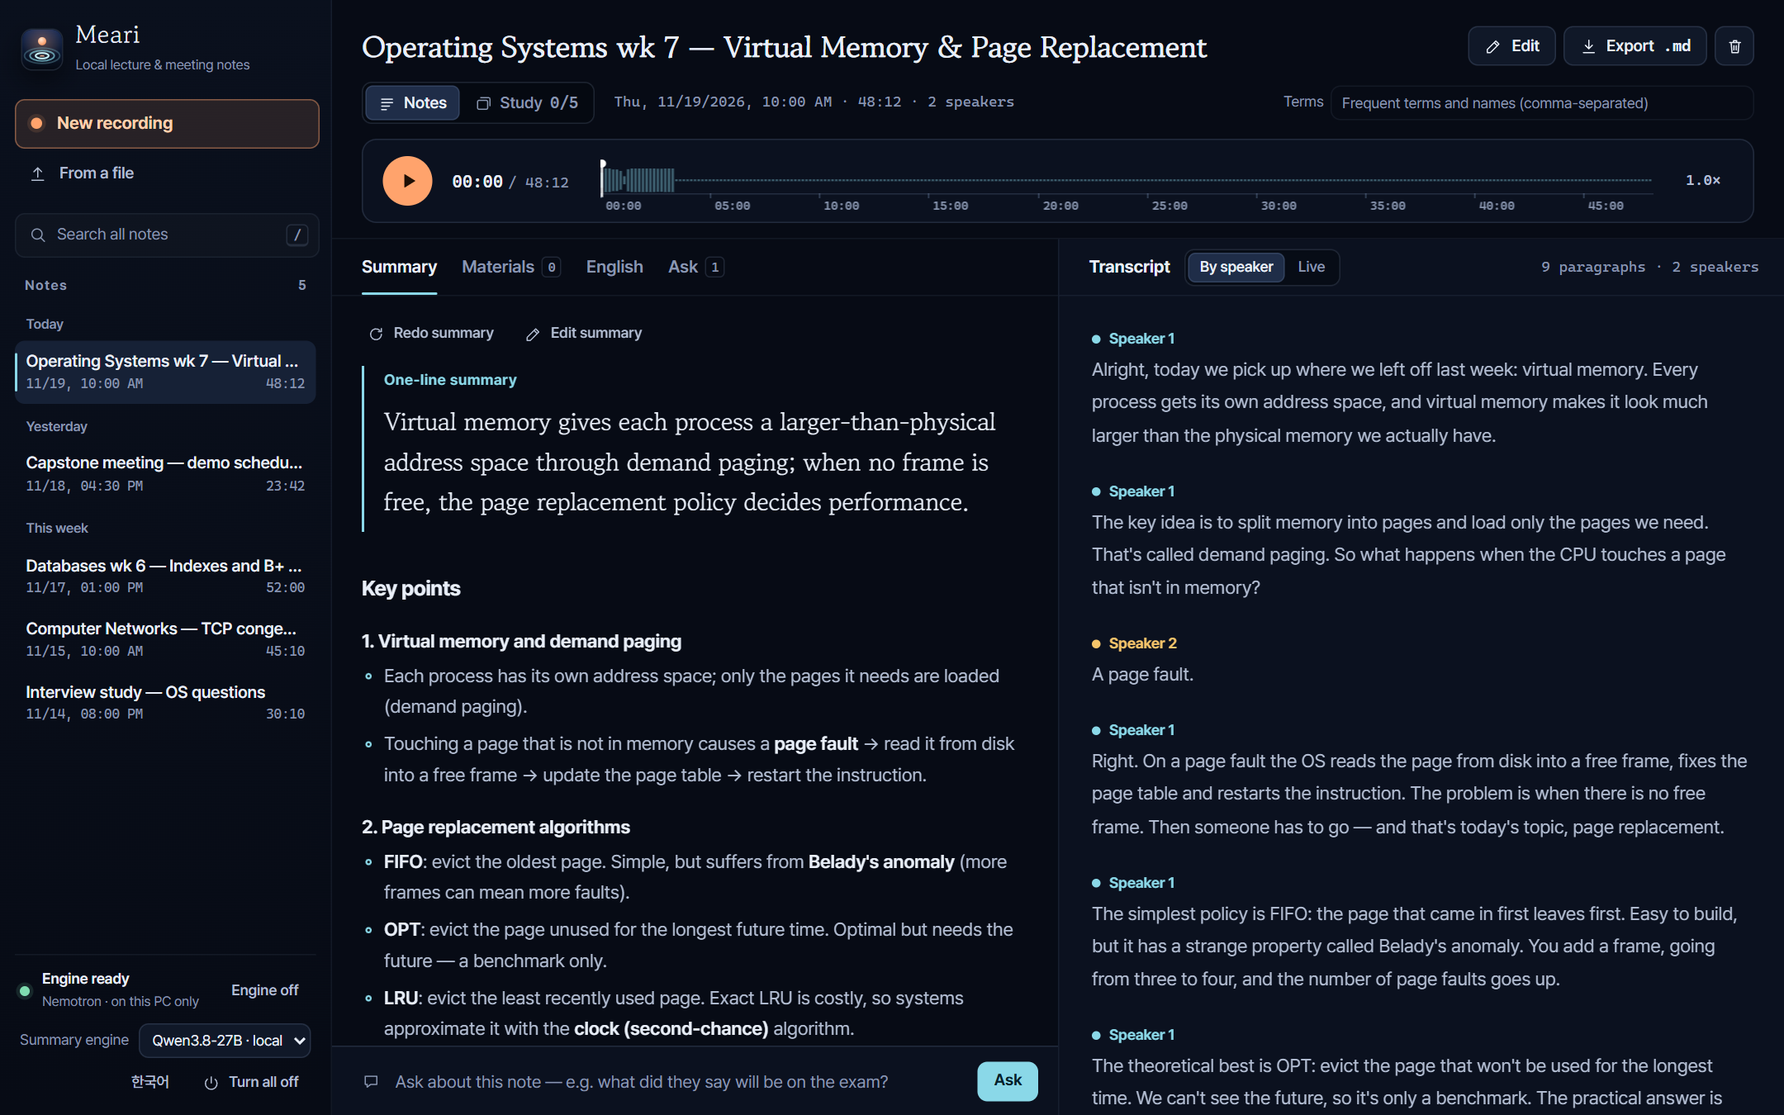
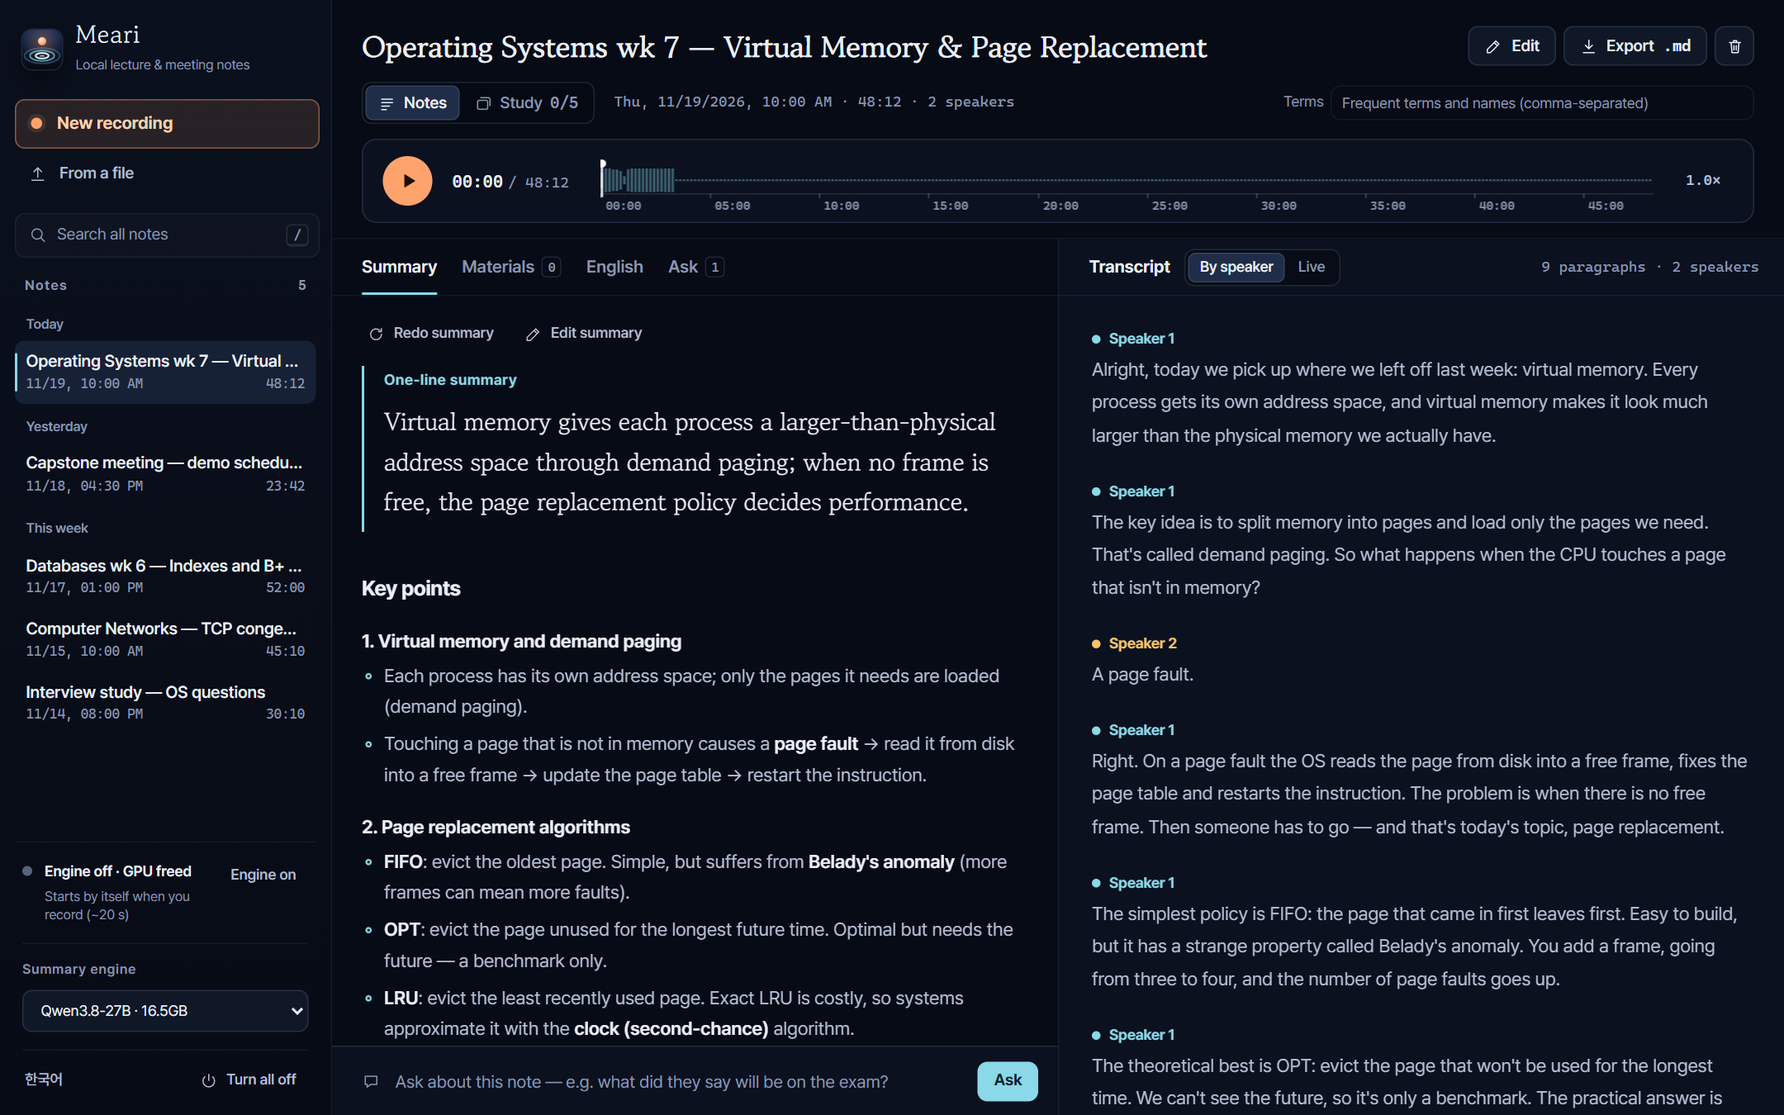
Keep speaker numbers across 30-minute parts; tidy the engine panel
- Speaker pass: each part after the first re-reads the last minute of the one before
  (MEARI_PIECE_OVERLAP_S, default 60). Speakers saying the same words there keep their
  number, the repeated text is dropped, and numbers go 1, 2, 3... by first appearance.
  Matching ignores spaces and punctuation. Old notes still show the per-part caveat.
- Sidebar engine panel: sections with separators, summary engine label above a full-width
  list grouped into local / subscription, cloud notice with an icon, status text wraps.
- README: limitation and settings updated, screenshots retaken.

Changed region(s): [[0.0, 0.8711, 0.1861, 0.9956], [0.0, 0.7778, 0.1551, 0.84], [0.062, 0.9644, 0.0931, 0.9956]]

diff --git a/static/style.css b/static/style.css
@@ -170,11 +170,11 @@ body[data-engine="boot"] [data-led] { background: var(--amber); box-shadow: 0 0 
 .nrow__snip { grid-column: 1 / -1; font-size: var(--t-12); color: var(--tx-2); line-height: 1.5; margin-top: 2px; display: -webkit-box; -webkit-line-clamp: 2; -webkit-box-orient: vertical; overflow: hidden; }
 .notes__empty { margin: var(--s-3) 2px; padding: var(--s-4); border: 1px dashed var(--line-2); border-radius: var(--r-3); color: var(--tx-3); font-size: var(--t-13); line-height: 1.6; }
 .notes__empty b { display: block; color: var(--tx-2); font-weight: 600; }
-.engine { border-top: 1px solid var(--line-1); padding: 10px 4px 2px; }
+.engine { border-top: 1px solid var(--line-1); padding: 14px 6px 4px; }
 .engine__row { display: flex; align-items: center; gap: 10px; }
 .engine__tx { flex: 1; min-width: 0; }
 .engine__tx b { display: block; font-size: var(--t-12); font-weight: 600; }
-.engine__tx small { display: block; font-size: var(--t-11); color: var(--tx-3); white-space: nowrap; overflow: hidden; text-overflow: ellipsis; }
+.engine__tx small { display: block; margin-top: 2px; font-size: var(--t-11); line-height: 1.45; color: var(--tx-3); }
 .phbar, .scrim { display: none; }
 
 /* ---------- main + views ---------- */
@@ -730,11 +730,15 @@ dialog .r { display: flex; justify-content: flex-end; gap: 8px; margin-top: var(
 }
 
 /* engine panel: state + two levels of "off" */
-.engine__row--sub { justify-content: space-between; margin-top: 6px; }
-.engine__row--sub #langBtn { margin-left: auto; margin-right: -4px; }
-.engine__llm { margin-top: 8px; gap: 8px; font-size: var(--t-12); color: var(--tx-3); }
-.engine__llm span { flex: none; }
-.engine__llm select { flex: 1; min-width: 0; height: 28px; padding: 0 6px; border: 1px solid var(--line-2); border-radius: var(--r-2);
+.engine__row--sub { justify-content: space-between; margin-top: 14px; padding-top: 10px; border-top: 1px solid var(--line-1); }
+.engine__row--sub #langBtn { margin-left: -8px; }
+.engine > .engine__row:first-child { align-items: flex-start; }
+.engine > .engine__row:first-child .led { margin-top: 5px; }
+.engine > .engine__row:first-child .btn { margin-top: -2px; }
+.engine__tx small { word-break: keep-all; }
+.engine__llm { display: block; margin-top: 14px; padding-top: 12px; border-top: 1px solid var(--line-1); }
+.engine__cap { display: block; margin-bottom: 7px; font-size: var(--t-11); font-weight: 600; letter-spacing: .04em; color: var(--tx-3); }
+.engine__llm select { width: 100%; height: 34px; padding: 0 10px; border: 1px solid var(--line-2); border-radius: var(--r-2);
   background: var(--ink-3); color: var(--tx-1); font-size: var(--t-12); cursor: pointer; }
 .engine__llm select:focus-visible { outline: 2px solid var(--echo-ln); outline-offset: 1px; }
 .sum-make { display: flex; flex-direction: column; align-items: flex-start; gap: 12px; padding: 22px 22px 20px; margin-top: 4px;
@@ -742,9 +746,9 @@ dialog .r { display: flex; justify-content: flex-end; gap: 8px; margin-top: var(
 .sum-make p { margin: 0; color: var(--tx-1); font-size: var(--t-15); }
 .sum-make .btn { height: 38px; padding: 0 16px; font-size: var(--t-14); border-color: var(--echo-ln); color: var(--echo-hi); }
 .sum-make small { color: var(--tx-3); font-size: var(--t-12); }
-.engine__cloud { display: block; margin-top: 4px; font-size: 11px; color: var(--amber); }
+.engine__cloud { display: flex; align-items: center; gap: 6px; margin-top: 8px; font-size: var(--t-11); line-height: 1.4; color: var(--amber); }
 .engine__cloud[hidden] { display: none; }
-.engine__idle { color: var(--tx-3); font-size: 11.5px; }
+.engine__idle:empty { display: none; }
 body[data-engine="off"] [data-led] { background: var(--tx-4); box-shadow: none; animation: none; }
 .ln--wait .ln__ko { color: var(--tx-3); }
 /* tap-to-start overlay when the browser blocks audio until a click */

diff --git a/static/app.js b/static/app.js
@@ -90,7 +90,7 @@ async function checkEngine() {
     boot: [t("엔진 켜는 중… (약 3분)"), t("녹음은 지금 바로 할 수 있어요"), t("켜는 중")],
     off: [t("엔진 꺼짐 · GPU 비워 둠"), t("녹음하면 자동으로 켜져요 (약 3분)"), t("꺼짐")] }[engineState];
   $("#engineText").textContent = T[0];
-  $("#engineMeta").textContent = st.backlog ? t("밀린 받아쓰기 {n}개 · 켜지면 처리해요", { n: st.backlog }) : T[1];
+  $("#engineMeta").textContent = st.backlog ? t("밀린 받아쓰기 {n}개 · 켜지면 처리해요", { n: st.backlog }) : T[1].replace(/\((약|~) /, "($1 ");  // keep "(약 20초)" on one line
   $$("[data-engine-short]").forEach((e) => (e.textContent = T[2]));
   const b = $("#engineBtn");
   b.textContent = engineState === "off" ? t("엔진 켜기") : t("엔진 끄기"); b.disabled = engineState === "boot";
@@ -321,7 +321,7 @@ function renderFinal(force) {
   let part = null;
   $("#final").innerHTML = f.paragraphs.map((p, i) => {
     let h = "";
-    if (p.part && p.part !== part) { part = p.part; h = `<div class="part">${t("{n}분 ~ (화자 번호는 30분 구간마다 새로 매겨져요)", { n: (part - 1) * 30 })}</div>`; }
+    if (p.part && p.part !== part) { part = p.part; h = `<div class="part">${data.final.linked ? t("{n}분 ~", { n: (part - 1) * 30 }) : t("{n}분 ~ (화자 번호는 30분 구간마다 새로 매겨져요)", { n: (part - 1) * 30 })}</div>`; }
     return h + `<div class="para" data-i="${i}" data-s="${(p.speaker % 4) + 1}"><button class="who" type="button" tabindex="${editMode ? 0 : -1}">${t("화자 {n}", { n: p.speaker + 1 })}</button>` +
       `<p class="tx__ko"><span class="tx__t"${ce()}>${esc(p.text)}</span></p></div>`;
   }).join("");
@@ -1398,13 +1398,14 @@ async function loadLlm() {
   try { r = await api("/llm"); } catch { return; }
   if (!r.native || !r.options.length) return;
   llmCur = r.current;
-  $("#llmSel").innerHTML = r.options.map((o) => `<option value="${esc(o.id)}"${o.id === r.current ? " selected" : ""}>${esc(o.label)} · ${
-    o.kind === "cloud" ? t("구독 · 클라우드") : t("로컬 {n}GB", { n: o.gb })}</option>`).join("");
+  const opt = (o) => `<option value="${esc(o.id)}"${o.id === r.current ? " selected" : ""}>${esc(o.label)}${o.kind === "local" ? ` · ${o.gb}GB` : ""}</option>`;
+  const group = (kind, name) => { const os = r.options.filter((o) => o.kind === kind); return os.length ? `<optgroup label="${esc(name)}">${os.map(opt).join("")}</optgroup>` : ""; };
+  $("#llmSel").innerHTML = group("local", t("로컬 — 이 PC 안에서")) + group("cloud", t("구독 — 클라우드"));
   $("#llmRow").hidden = false;
   $("#llmCloud").hidden = !isCloud(llmCur);
 }
 $("#llmSel").onchange = async (e) => {
-  const v = e.target.value, label = (e.target.selectedOptions[0]?.textContent || v).split(" · ")[0];
+  const v = e.target.value, label = (e.target.selectedOptions[0]?.textContent || v).split(" · ")[0];  // drop the size
   if (isCloud(v) && !await confirmDlg(t("클라우드 엔진으로 바꿀까요?"),
     t("요약·퀴즈·질문 답변을 만들 때 원고가 {s} 쪽으로 보내져요. 녹음 파일은 보내지 않아요. 구독 사용량이 조금씩 쓰여요.", { s: label }), t("바꾸기"))) {
     e.target.value = llmCur;

diff --git a/static/index.html b/static/index.html
@@ -14,7 +14,7 @@
 <link rel="preconnect" href="https://fonts.googleapis.com">
 <link rel="preconnect" href="https://fonts.gstatic.com" crossorigin>
 <link rel="stylesheet" href="https://fonts.googleapis.com/css2?family=Gowun+Batang:wght@400;700&display=swap">
-<link rel="stylesheet" href="style.css?v=17">
+<link rel="stylesheet" href="style.css?v=18">
 </head>
 <body data-engine="boot" data-view="home">
 
@@ -58,6 +58,7 @@
     <symbol id="i-note" viewBox="0 0 24 24"><path d="M5 6.5h14M5 11h14M5 15.5h10M5 20h6"/></symbol>
     <symbol id="i-menu" viewBox="0 0 24 24"><path d="M4 7h16M4 12h16M4 17h16"/></symbol>
     <symbol id="i-ext" viewBox="0 0 24 24"><path d="M13.5 4.5H19.5V10.5M19.5 4.5l-8 8M17 14v5.5H4.5V7H10"/></symbol>
+    <symbol id="i-cloud" viewBox="0 0 24 24"><path d="M7.5 18.5h9.5a4 4 0 0 0 .6-7.95A5.5 5.5 0 0 0 7 9.6a4.5 4.5 0 0 0 .5 8.9z"/></symbol>
   </defs>
 </svg>
 
@@ -83,16 +84,15 @@
   <div class="engine">
     <div class="engine__row">
       <i id="engineDot" class="led" data-led></i>
-      <span class="engine__tx"><b id="engineText">엔진 확인 중…</b><small id="engineMeta">Nemotron · 이 PC 안에서만</small></span>
+      <span class="engine__tx"><b id="engineText">엔진 확인 중…</b><small id="engineMeta">Nemotron · 이 PC 안에서만</small><small id="engineIdle" class="engine__idle"></small></span>
       <button id="engineBtn" class="btn sm quiet" title="GPU 메모리만 비우고 앱은 그대로 둡니다">엔진 끄기</button>
     </div>
-    <label class="engine__row engine__llm" id="llmRow" hidden>
-      <span>요약 엔진</span>
+    <label class="engine__llm" id="llmRow" hidden>
+      <span class="engine__cap">요약 엔진</span>
       <select id="llmSel" title="요약·퀴즈·질문 답변을 만드는 모델"></select>
     </label>
-    <small class="engine__cloud" id="llmCloud" hidden>원고가 PC 밖(클라우드)으로 보내져요</small>
+    <small class="engine__cloud" id="llmCloud" hidden><svg class="ic s"><use href="#i-cloud"/></svg><span>원고가 PC 밖(클라우드)으로 보내져요</span></small>
     <div class="engine__row engine__row--sub">
-      <small id="engineIdle" class="engine__idle"></small>
       <button id="langBtn" class="btn sm quiet" type="button" data-noi18n></button>
       <button id="shutdownBtn" class="btn sm quiet danger" title="앱과 엔진을 모두 끕니다"><svg class="ic s"><use href="#i-power"/></svg>모두 끄기</button>
     </div>
@@ -365,7 +365,7 @@
   <form method="dialog" class="r"><button class="btn" value="no">취소</button><button class="btn danger-solid" value="yes" id="dlgOk"></button></form>
 </dialog>
 <div class="toasts" id="toasts" aria-live="polite"></div>
-<script src="i18n.js?v=4"></script>
-<script src="app.js?v=19"></script>
+<script src="i18n.js?v=5"></script>
+<script src="app.js?v=20"></script>
 </body>
 </html>

diff --git a/static/i18n.js b/static/i18n.js
@@ -175,6 +175,7 @@ const EN = {
   "강의 자료 {n}쪽 보기": "Open material page {n}",
   "녹음을 시작하면 여기에 실시간으로 받아써져요.": "Start recording and the live transcript appears here.",
   "녹음을 멈추면 화자별로 정리된 원고가 만들어져요.": "When you stop, a speaker-separated transcript is made.",
+  "{n}분 ~": "From {n} min",
   "{n}분 ~ (화자 번호는 30분 구간마다 새로 매겨져요)": "From {n} min (speaker numbers restart every 30 minutes)",
   "화자 {n}": "Speaker {n}",
   "{a}문단 · 화자 {b}명": "{a} paragraphs · {b} speakers",
@@ -199,6 +200,8 @@ const EN = {
   "자료에서 글자를 찾지 못했어요(스캔본일 수 있어요). 보기는 되지만 원고와 연결되지는 않아요.": "No text found in the file (it may be a scan). You can view it, but it won't link to the transcript.",
   "퀴즈와 암기카드": "Quiz and flashcards",
   "원고를 바탕으로 객관식 퀴즈와 암기카드를 만들어요. 위의 <b>복습 자료 만들기</b>를 눌러 주세요.": "Makes a multiple-choice quiz and flashcards from the transcript. Press <b>Make study set</b> above.",
+  "로컬 — 이 PC 안에서": "Local — on this PC",
+  "구독 — 클라우드": "Subscription — cloud",
   "지금 {job} — 끝나면 복습 자료를 만들 수 있어요.": "Now: {job}. You can make the study set when it finishes.",
   "복습 자료를 만들면 여기에 암기카드가 나와요.": "Flashcards appear here once you make a study set.",
   "정답": "Correct",

diff --git a/server.py b/server.py
@@ -16,6 +16,7 @@ import subprocess
 import threading
 import time
 import uuid
+from difflib import SequenceMatcher
 import wave
 from collections import Counter
 from pathlib import Path
@@ -62,7 +63,10 @@ SETTINGS = DATA.parent / "settings.json"   # app settings kept with the notes (e
 ENGINE_URL = os.environ.get("ENGINE_URL", "http://127.0.0.1:8010/v1")
 MODEL = "nemotron-transcribe"
 SR = 16000
-FINAL_PIECE_S = 1800  # final speaker pass works on <=30 min pieces
+FINAL_PIECE_S = int(os.environ.get("MEARI_FINAL_PIECE_S", 1800))  # final speaker pass works on <=30 min pieces
+# Each piece after the first also re-reads this much of the previous one. The speech heard twice tells which
+# speaker number in the new piece is which speaker in the old one (the model numbers speakers per piece).
+PIECE_OVERLAP_S = int(os.environ.get("MEARI_PIECE_OVERLAP_S", 60))
 MATERIAL_EXT = {".pdf", ".pptx", ".txt", ".md"}
 
 app = FastAPI(title="SoriNote")
@@ -534,6 +538,73 @@ def parse_speakers(text: str, part: int | None = None) -> list[dict]:
     return out
 
 
+_NOISE = re.compile(r"[\s.,!?…·'\"~\-]")
+
+
+def _flat(paras: list[dict]) -> tuple[str, list[tuple[int, int]]]:
+    """Paragraph text with spaces and punctuation removed (pieces spell the same speech slightly differently),
+    and for each kept char its (paragraph index, position in that paragraph's text)."""
+    chars, where = [], []
+    for i, p in enumerate(paras):
+        for j, ch in enumerate(p["text"]):
+            if not _NOISE.match(ch):
+                chars.append(ch)
+                where.append((i, j))
+    return "".join(chars), where
+
+
+def stitch_piece(prev: list[dict], cur: list[dict], next_id: int) -> tuple[list[dict], int]:
+    """Joins the next piece's paragraphs onto the earlier ones.
+
+    `cur` starts with PIECE_OVERLAP_S of speech that `prev` already ends with. Text matched in both says which of
+    cur's speaker numbers is which earlier speaker; that repeated text is then dropped from cur. Speakers not heard
+    in the overlap get new numbers from `next_id`. Returns cur's renumbered paragraphs and the next free number.
+    """
+    if not cur:
+        return [], next_id
+    pt, pw = _flat(prev)
+    ct, cw = _flat(cur)
+    off = max(0, len(pt) - 2500)  # ~60 s of speech is a few hundred chars; leave room
+    sm = SequenceMatcher(None, pt[off:], ct[:2500], autojunk=False)
+    blocks = [b for b in sm.get_matching_blocks() if b.size >= 4]
+    votes: Counter = Counter()
+    cut = None  # (paragraph, char) in cur where the new speech starts
+    for b in blocks:
+        for k in range(b.size):
+            votes[(cur[cw[b.b + k][0]]["speaker"], prev[pw[off + b.a + k][0]]["speaker"])] += 1
+        last = b.b + b.size - 1
+        cut = (cw[last][0], cw[last][1] + 1)
+    if sum(b.size for b in blocks) < 15:  # nothing reliable in common (silence, or only noise)
+        cut = None
+    mapping, used = {}, set()
+    for (c, g), n in votes.most_common():
+        if n >= 6 and c not in mapping and g not in used:
+            mapping[c] = g
+            used.add(g)
+    out = []
+    for i, p in enumerate(cur):
+        text = p["text"]
+        if cut and i < cut[0]:
+            continue  # heard in the previous piece already
+        if cut and i == cut[0]:
+            text = text[cut[1]:].lstrip(" .,!?…·")
+        if not text:
+            continue
+        if p["speaker"] not in mapping:
+            mapping[p["speaker"]] = next_id
+            next_id += 1
+        out.append({**p, "speaker": mapping[p["speaker"]], "text": text})
+    return out, next_id
+
+
+def number_by_appearance(paras: list[dict]) -> list[dict]:
+    """Speaker numbers 0, 1, 2... in the order people first speak (no gaps)."""
+    order: dict[int, int] = {}
+    for p in paras:
+        order.setdefault(p["speaker"], len(order))
+    return [{**p, "speaker": order[p["speaker"]]} for p in paras]
+
+
 def transcript_text(sid: str) -> str:
     d = sdir(sid)
     final = rj(d / "final.json", None)
@@ -637,14 +708,22 @@ def run_finalize(sid: str, do_segments: bool):
                 wj(d / "segments.json", segs)
             set_meta(sid, status="speakers", progress=0)
             paragraphs, starts = [], list(np.arange(0, max(total, 0.1), FINAL_PIECE_S))
+            next_id = 0
             for i, st in enumerate(starts):
-                piece = read_pcm(sid, st, min(st + FINAL_PIECE_S, total))
+                # from the second piece on, start PIECE_OVERLAP_S early: that speech links the speaker numbers
+                lead = PIECE_OVERLAP_S if paragraphs else 0
+                piece = read_pcm(sid, st - lead, min(st + FINAL_PIECE_S, total))
                 if len(piece) < SR // 2 or np.abs(piece).max(initial=0) <= SILENCE_PEAK:
                     continue
                 txt = transcribe(piece, asr_prompt(True))
-                paragraphs += parse_speakers(txt, part=i + 1 if len(starts) > 1 else None)
+                cur = parse_speakers(txt, part=i + 1 if len(starts) > 1 else None)
+                if paragraphs:
+                    cur, next_id = stitch_piece(paragraphs, cur, next_id)
+                else:
+                    next_id = max((p["speaker"] for p in cur), default=-1) + 1
+                paragraphs += cur
                 set_meta(sid, progress=round((i + 1) / len(starts) * 100))
-            wj(d / "final.json", {"paragraphs": paragraphs, "parts": len(starts)})
+            wj(d / "final.json", {"paragraphs": number_by_appearance(paragraphs), "parts": len(starts), "linked": True})  # linked: one numbering across pieces
             link_materials(sid)
             # The summary is made when the user asks for it (Make summary), with the engine chosen then.
             set_meta(sid, status="done", progress=None, error=None)

diff --git a/README.en.md b/README.en.md
@@ -175,6 +175,7 @@ Put machine-specific values in `local.env` — copy `local.env.example`. The ser
 | `MEARI_FFMPEG` | `ffmpeg` | ffmpeg for uploaded audio/video files |
 | `MEARI_SPEECH_LANG` | `ko` | Language spoken in recordings: `ko` / `en` / `auto` (separate from the UI language) |
 | `MEARI_IDLE_OFF_MIN` | `30` | Minutes before idle engines turn off, `0` = never |
+| `MEARI_FINAL_PIECE_S` / `MEARI_PIECE_OVERLAP_S` | `1800` / `60` | Speaker-pass part length / how much of the previous part each part re-reads (s) |
 | `SORINOTE_DATA` | `./data` | Where notes are stored |
 | `SORINOTE_HOSTS` | `127.0.0.1,localhost` | Allowed host names (add your Tailscale name for phone access) |
 | `MEARI_RUNTIME` | `native` on Windows | `vllm` for the WSL setup |
@@ -185,7 +186,7 @@ WSL-only settings (`MEARI_NEMO_DIR`, `MEARI_MODEL`, `GPU_UTIL`, `MAX_SEQS`, `ENG
 
 - Windows-native transcription was verified with AtomicChat's GGUF conversion (`AD-NVFP4`). Used in llama.cpp for text generation, the same decoder repeats and drifts in Korean, so summaries use a separate language model.
 - Speech recognition assumes Korean by default. For English recordings set `MEARI_SPEECH_LANG=en` (or `auto`).
-- Speaker numbers restart every 30-minute part.
+- Long recordings are split into 30-minute parts for speaker labels. Each part re-reads the last minute of the one before, and people heard saying the same words there keep their number. Someone silent during that minute can get a new number in the next part.
 - Translation is English only.
 - Material-to-transcript linking is based on text overlap (no match for scanned PDFs or English slides with a Korean lecture).
 - The old name `SoriNote` still appears in places (`SORINOTE_*`, `X-SoriNote`).

diff --git a/README.md b/README.md
@@ -175,6 +175,7 @@ cd desktop; cargo build --release; copy target\release\meari.exe ..\Meari.exe
 | `MEARI_FFMPEG` | `ffmpeg` | 음성·영상 파일 변환용 ffmpeg |
 | `MEARI_SPEECH_LANG` | `ko` | 녹음되는 말의 언어: `ko` / `en` / `auto` (화면 언어와 별개) |
 | `MEARI_IDLE_OFF_MIN` | `30` | 엔진 자동 끄기까지의 시간(분), `0` = 끔 |
+| `MEARI_FINAL_PIECE_S` / `MEARI_PIECE_OVERLAP_S` | `1800` / `60` | 화자 구분 구간 길이 / 앞 구간과 겹쳐 들을 길이(초) |
 | `SORINOTE_DATA` | `./data` | 노트 저장 위치 |
 | `SORINOTE_HOSTS` | `127.0.0.1,localhost` | 허용할 호스트(휴대폰용 Tailscale 이름 추가) |
 | `MEARI_RUNTIME` | Windows면 `native` | `vllm`이면 WSL 방식 |
@@ -184,7 +185,7 @@ WSL 방식 전용 설정(`MEARI_NEMO_DIR`, `MEARI_MODEL`, `GPU_UTIL`, `MAX_SEQS`
 ## 알려진 한계
 
 - Windows 네이티브 받아쓰기는 AtomicChat의 GGUF 변환본(`AD-NVFP4`)으로 확인했어요. 같은 GGUF 디코더를 llama.cpp에서 글 생성용으로 쓰면 한국어가 반복·오염돼서, 요약은 별도 언어모델을 써요.
-- 화자 번호는 30분 구간마다 새로 매겨져요.
+- 긴 녹음은 30분 구간으로 나눠 화자를 구분해요. 구간마다 앞 구간의 마지막 1분을 겹쳐 다시 듣고, 겹친 부분에서 같은 말을 한 사람을 같은 번호로 이어요. 겹친 1분 동안 말하지 않은 사람은 다음 구간에서 새 번호를 받을 수 있어요.
 - 번역은 영어만 지원해요.
 - 자료-원고 연결은 글자 겹침 기반이에요(스캔본 PDF, 영어 자료 + 한국어 강의에서는 연결 안 됨).
 - 코드 곳곳에 옛 이름 `SoriNote`가 남아 있어요(`SORINOTE_*`, `X-SoriNote`).
